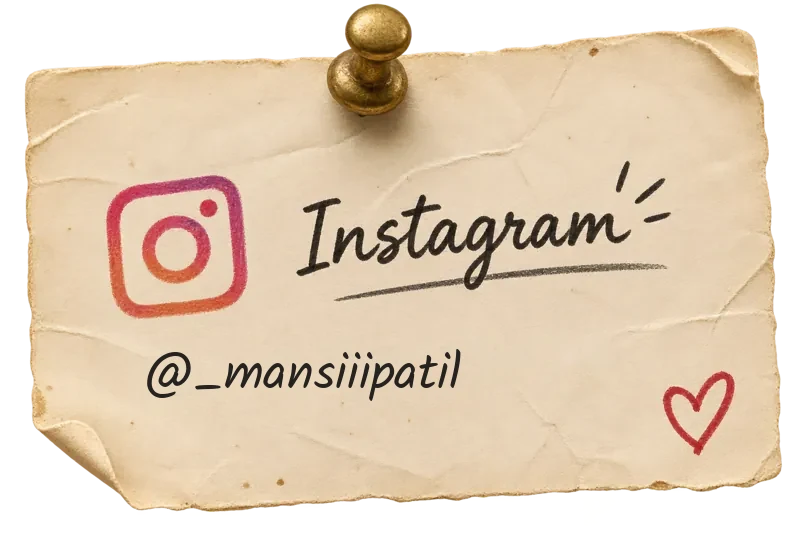
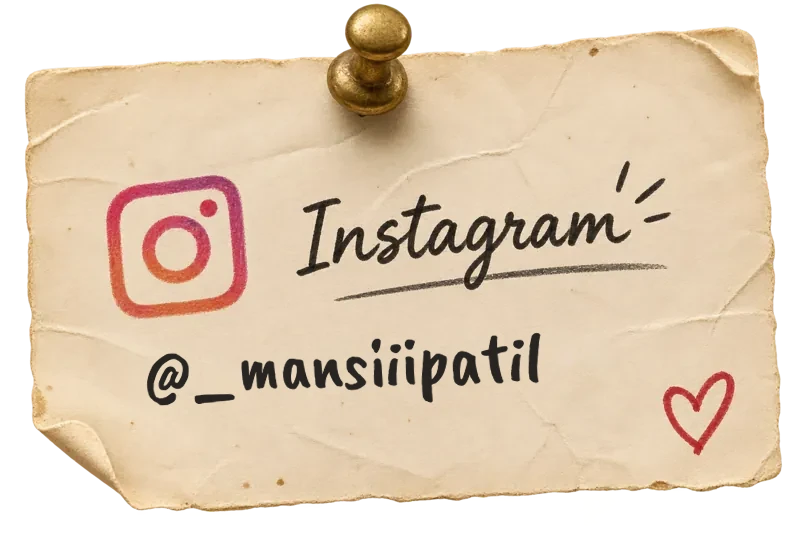
Mobile: tighter services/contact spacing, Caveat Brush IG handle; page-turn aligned to live page rect, exact-size textures only, re-capture on resize/fullscreen

Changed region(s): [[0.1875, 0.6304, 0.6875, 0.7805]]

diff --git a/src/main.js b/src/main.js
@@ -207,20 +207,23 @@ function build(){
  const SNAPMODE=location.search.includes('snap');
  // build-time page textures (node prerender.mjs): same snapshot() output, saved per viewport, so no multi-second snapshot work at runtime
  const loadPre=async()=>{if(SNAPMODE)return false;try{const man=await (await fetch('/turn/manifest.json')).json();const vw=innerWidth,vh=innerHeight,a=vw/vh;
-   const cand=man.filter(m=>m.mobile===mobile);let set=cand.find(m=>m.w===vw&&m.h===vh)||cand.filter(m=>Math.abs(m.w/m.h-a)/a<.03).sort((p,q)=>Math.abs(p.w-vw)-Math.abs(q.w-vw))[0];if(!set)return false;
+   const cand=man.filter(m=>m.mobile===mobile);let set=cand.find(m=>m.w===vw&&m.h===vh);if(!set)return false; // exact size only; otherwise capture at runtime so the texture matches the live page
    const ks=Object.keys(set.snaps);const first=ks.includes('#heroexit')?['#heroexit','#momentsexit']:[];const ord=[...first,...ks.filter(k=>!first.includes(k))];
    const ld=async K=>{const e=set.snaps[K],im=new Image();im.src=`/turn/${set.id}/${e.f}`;await im.decode();const h=e.h*vh/set.h,kx=set.dpr*set.w/vw;SN[K]={cvs:im,h,kx,ky:set.dpr*e.h/h,ox:(e.x||0)*vw/set.w};if(K==='#momentsexit')window.__snap1=true};
    await Promise.all(ord.slice(0,2).map(ld));window.__snap1=true;for(const K of ord.slice(2))await ld(K);return true}catch(e){console.warn('pre',e);return false}};
- window.__exportSnaps=async()=>{await window.__snaps;const o={};for(const K in SN)o[K]={h:SN[K].h,url:SN[K].cvs.toDataURL('image/webp',.92)};return o};
+ let lastSz=mobile?innerWidth+'':innerWidth+'x'+innerHeight,rsT;addEventListener('resize',()=>{clearTimeout(rsT);rsT=setTimeout(async()=>{const sz=mobile?innerWidth+'':innerWidth+'x'+innerHeight;if(sz===lastSz||SNAPMODE)return;lastSz=sz;await window.__snaps;window.__kills.forEach(f=>f());for(const K in SN)delete SN[K];varCSS=null;window.__snaps=(async()=>{if(await loadPre())return true;for(const [s,m] of jobs){const K=key(s,m);SN[K]=SN[K]||await snapshot(s,one(s)?'exit':m)}return true})()},400)});
+window.__kills=window.__kills||[];
+window.__exportSnaps=async()=>{await window.__snaps;const o={};for(const K in SN)o[K]={h:SN[K].h,url:SN[K].cvs.toDataURL('image/webp',.92)};return o};
  window.__snaps=(async()=>{await new Promise(r=>setTimeout(r,50));window.__spineSafe();ScrollTrigger.refresh();if(await loadPre())return true;for(const [s,m] of jobs){const t0=performance.now();const K=key(s,m);SN[K]=SN[K]||await snapshot(s,one(s)?'exit':m);if(K==='#momentsexit')window.__snap1=true}return true})();
  for(let k=0;k<order.length-1;k++){
   const A=$(order[k]+' .sheet'),B=$(order[k+1]+' .sheet'),secB=B.closest('section');
   const mids=[];let n=(A.closest('.pin-spacer')||A.closest('section')).nextElementSibling;
   while(n&&!n.contains(B)){mids.push(n);n=n.nextElementSibling}
   let T=null;
-  const make=()=>{if(T)return;const sa=SN[key(order[k],'exit')],sb=SN[key(order[k+1],'entry')];
+  const docTop=el=>{let y=0,n=el;while(n){y+=n.offsetTop;n=n.offsetParent}return y};
+  const make=(st)=>{if(T)return;const sa=SN[key(order[k],'exit')],sb=SN[key(order[k+1],'entry')];
    finishEntry(secB);const vw=innerWidth,vh=innerHeight,X=mobile?0:vw/2,W=mobile?vw:vw/2;
-   const yA=sa?sa.h-vh:0;
+   const yA=sa?Math.max(0,Math.min(sa.h-vh,(A.style.translate='',-(A.getBoundingClientRect().top+scrollY-(st!=null?st:scrollY))))):0;
    const tF=crop(sa,X,yA,W,vh,false),tB=mobile?crop(sb,0,0,W,vh,false):crop(sb,X-W,0,W,vh,false);
    mat.uniforms.tF.value=tF;mat.uniforms.tB.value=tB;
    T={X,W,vh,vw,tF,tB};gl.domElement.style.display='block';document.body.classList.add('turning');
@@ -243,9 +246,9 @@ function build(){
    const l2=Math.max(0,X-minx);if(!mobile&&minx<X-2){shL.style.cssText=`display:block;left:${minx-sp}px;width:${l2+sp}px;background:linear-gradient(270deg,rgba(30,15,5,${a*.7}),rgba(30,15,5,${a}) ${Math.max(0,l2-sp*.3)}px,transparent ${l2+sp}px)`}else shL.style.display='none'};
   const bTop=()=>{const e=B.closest('.pin-spacer')||B.closest('section');let y=0,n=e;while(n){y+=n.offsetTop;n=n.offsetParent}return y};
   ScrollTrigger.create({start:()=>{const pv=k?ScrollTrigger.getById('turn'+(k-1)):null;return Math.max(0,pv?pv.end+1:0,bTop()-innerHeight-mids.reduce((t,m)=>t+m.offsetHeight,0))},end:()=>bTop(),invalidateOnRefresh:true,id:'turn'+k,
-   onUpdate:self=>{const p=self.progress;if(p<=0||p>=1){kill();return}make();gl.domElement.style.display='block';document.body.classList.add('turning');
+   onUpdate:self=>{const p=self.progress;if(p<=0||p>=1){kill();return}make(self.start);gl.domElement.style.display='block';document.body.classList.add('turning');
     A.style.translate=`0 ${self.scroll()-self.start}px`;B.style.translate=`0 ${-(self.end-self.scroll())}px`;draw(p)},
-   onLeave:kill,onLeaveBack:kill});
+   onLeave:kill,onLeaveBack:kill});window.__kills.push(kill);
  }
  // tabs active
  secs.forEach((s,i)=>ScrollTrigger.create({trigger:s,start:'top 50%',end:'bottom 50%',onToggle:e=>$$('.tabs a')[i].classList.toggle('act',e.isActive)}));

diff --git a/src/style.css b/src/style.css
@@ -418,3 +418,8 @@ body.turning .mo-hint{opacity:0!important;transition:none}
  .hang:nth-child(even){margin-top:5vh}
  .hero .cta .stk{width:44vw}
 }
+@media (max-width:860px) and (orientation:portrait){
+ .hang img{margin-top:-6%}
+ .tags{row-gap:0}
+ .env-wrap{margin-top:3vh}
+}
